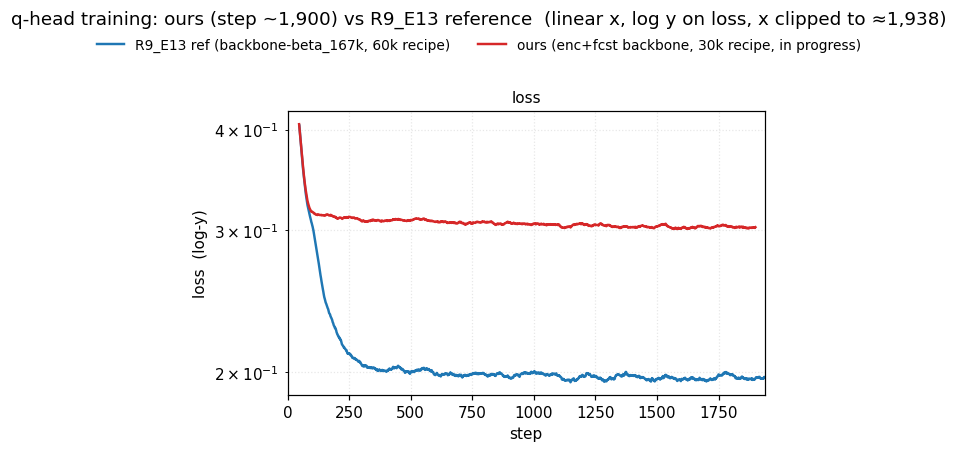
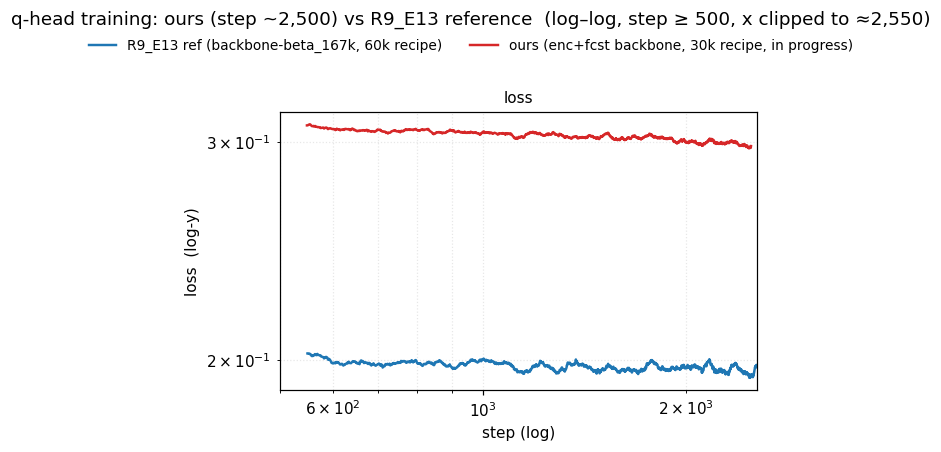
plot(encoder-forecaster): qhead_compare → log-log, skip step < 500
Both PNGs now render log–log starting at step 500 — past warmup, where
the actual training-loss gap lives. The first-500-step ramp dominated
the linear-x view and visually compressed the post-warmup regime.

Same filenames; the github URL points to a refreshed image.

Visual read at step ~2,400: curves are near-parallel. Reference holds
~0.19–0.20; ours holds ~0.30–0.31. No visible gap closure.

Changed region(s): [[0.1849, 0.1858, 0.8321, 0.9912], [0.0, 0.0, 0.9862, 0.1239], [0.4931, 0.0929, 0.9245, 0.1239]]

diff --git a/experiments/2026-05-10_exp_encoder_forecaster/scripts/plot_qhead_compare.py b/experiments/2026-05-10_exp_encoder_forecaster/scripts/plot_qhead_compare.py
@@ -257,15 +257,21 @@ def main() -> None:
             pieces.append(f"{c}={last_window_mean(arr[c]):.4f}")
         print("[plot] " + ", ".join(pieces))
 
+    # Skip the first 500 steps in BOTH plots: that window is dominated by
+    # the warmup ramp where both arms drop fast on the head's still-random
+    # init, and it visually compresses the post-warmup regime where the
+    # actual gap lives. The log-x lower bound is also snapped here so the
+    # two arms share an identical visible window.
+    XMIN_SKIP = 500
     render_figure(
         ours, ref, metric_cols,
-        logx=False, out_path=OUT_LIN, scale_tag="linear x, log y on loss",
-        xmax=xmax,
+        logx=True, out_path=OUT_LIN, scale_tag="log–log, step ≥ 500",
+        xmax=xmax, xmin_log=XMIN_SKIP,
     )
     render_figure(
         ours, ref, metric_cols,
-        logx=True, out_path=OUT_LOG, scale_tag="log–log",
-        xmax=xmax, xmin_log=first_step,
+        logx=True, out_path=OUT_LOG, scale_tag="log–log, step ≥ 500",
+        xmax=xmax, xmin_log=XMIN_SKIP,
     )
 
 
